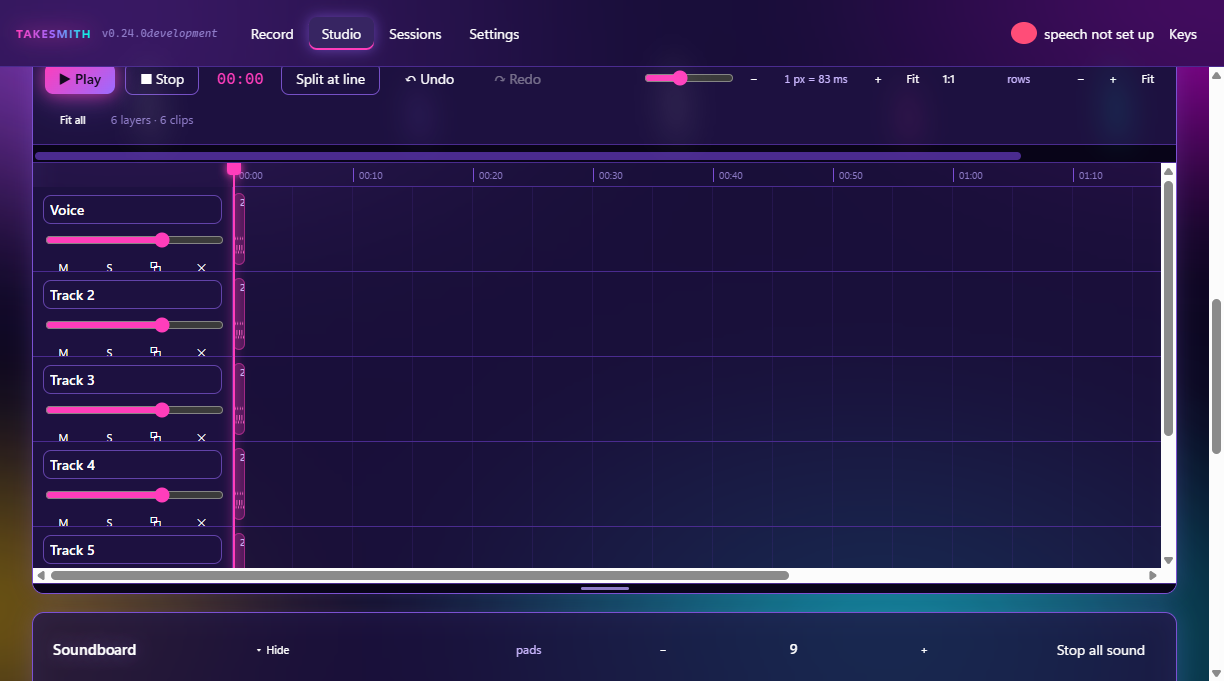
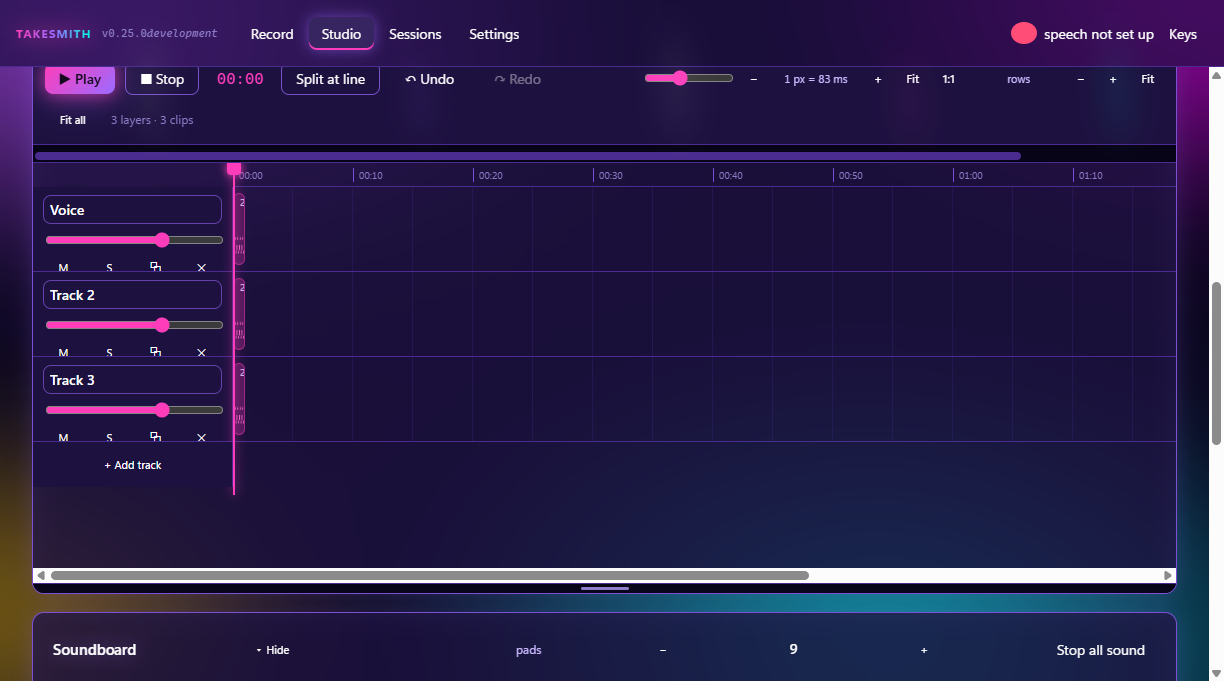
Bring the showcase up to 0.25.0: chapters from the script
New screenshots from the build's own capture mode, so the version in the
top bar matches the page. The new feature is named in the studio list:
section labels already in the script become chapter timestamps, timed from
where each first line was said. The panel itself is not photographed yet;
the capture has no recorded take of a script to open it with.

diff --git a/README.md b/README.md
@@ -40,6 +40,7 @@ What starts as a read becomes a finished episode without leaving the app.
 * Guest cameras, and remote guests
 * B-roll suggestions and poster frames
 * An effects rack, running off the main thread so it never stalls the room
+* **Chapters from the script itself:** the section labels you already wrote become chapter timestamps, each timed from the moment you said the first line under it
 * Export to WAV or MP3
 
 ## Sessions
@@ -72,7 +73,7 @@ That idea turned into Takesmith.
 
 ## Current status
 
-Takesmith is under active development and testing. The build on this page is **0.24.0**.
+Takesmith is under active development and testing. The build on this page is **0.25.0**.
 
 The core project is kept in a private repository while the software continues to be developed. This repository is the public home for information, screenshots, development updates, and future release information.
 
